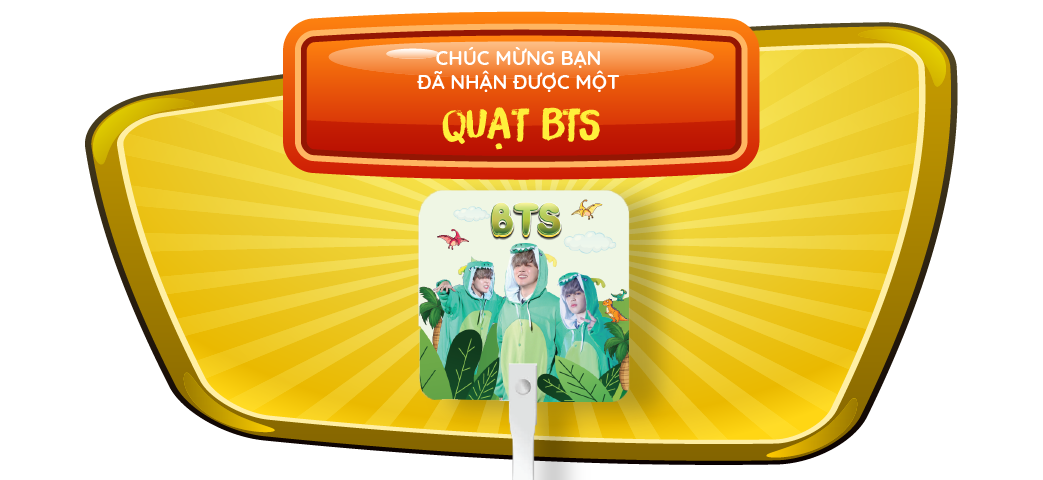
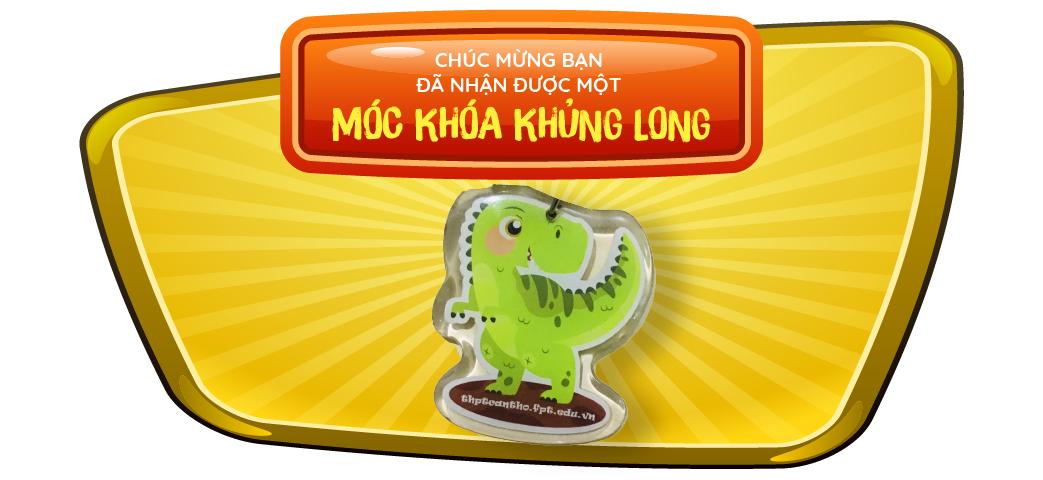
remove some images

Changed region(s): [[0.0614, 0.0, 0.9511, 1.0]]

diff --git a/src/App.js b/src/App.js
@@ -7,7 +7,7 @@ import ResultList from "./components/ResultList";
 import ResultAlert from "./components/ResultAlert";
 import SettingDialog from "./components/SettingDialog";
 
-const imageSources = Array.from(Array(7)).map((v, i) =>
+const imageSources = Array.from(Array(3)).map((v, i) =>
   require(`./images/img0${i}.png`)
 );
 
